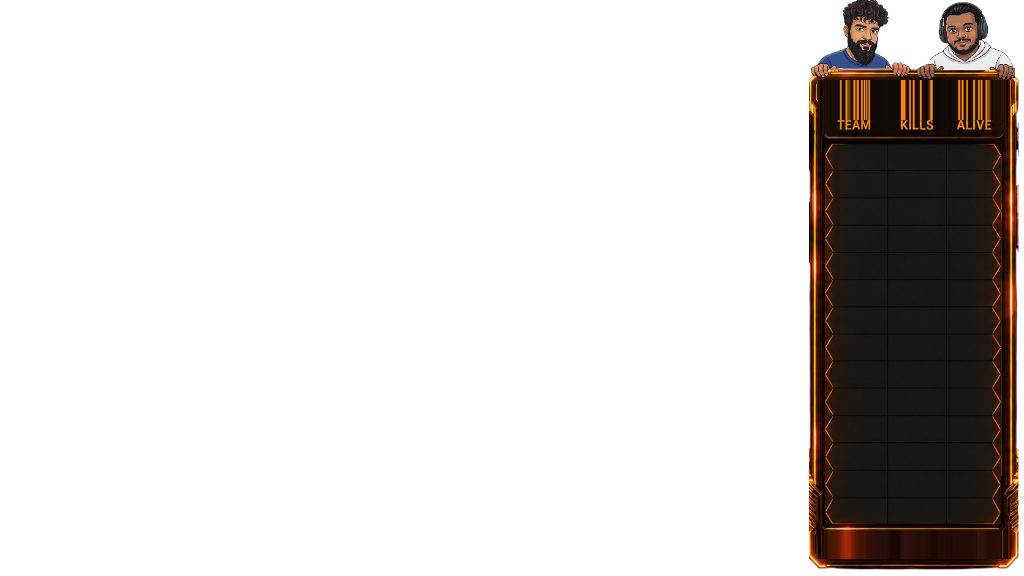
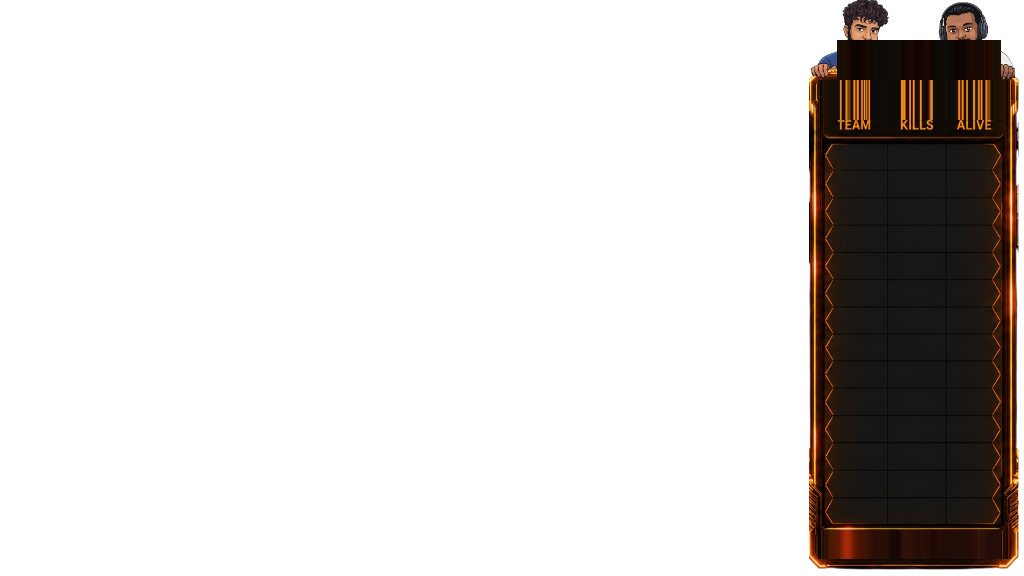
Fix doubled headers: erase waveform bars from bg image at correct Y=40-79, restore HTML colHeaders visible

Changed region(s): [[0.8125, 0.0625, 1.0, 0.1562]]

diff --git a/ASSETS/templates/tournament/LIVE_SCOREBOARD.html b/ASSETS/templates/tournament/LIVE_SCOREBOARD.html
@@ -93,7 +93,7 @@
     }
 
     /* ── Column Headers (Team | Kills | Alive) ──────────────── */
-    /* Baked into background graphic — hidden to avoid doubling */
+    /* Background image header area is now clean; HTML text shows here */
     #colHeaders {
       display: grid;
       grid-template-columns: 5.66vw 3.42vw 7.52vw;
@@ -103,7 +103,7 @@
       border-bottom: none;
       background: transparent;
       flex-shrink: 0;
-      visibility: hidden; /* TEAM/KILLS/ALIVE are baked into the background image */
+      visibility: visible;
     }
 
     .col-hdr {
